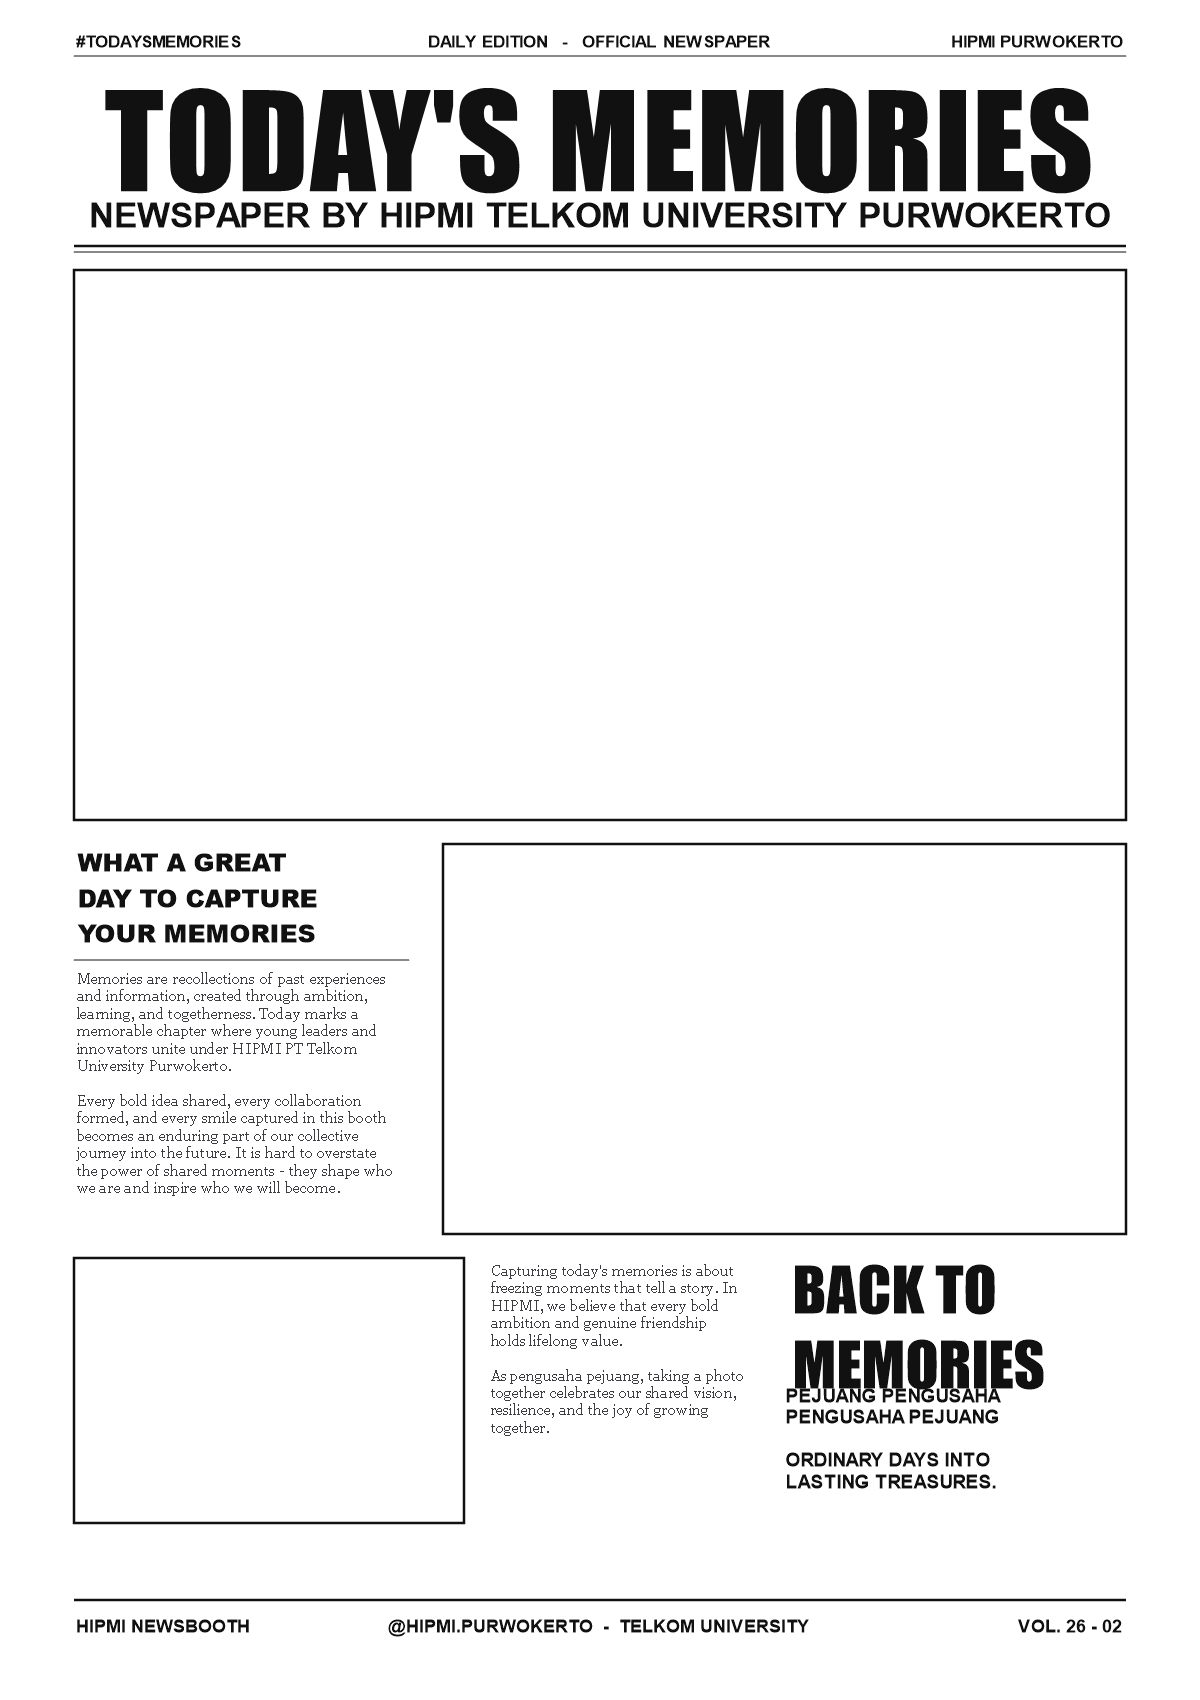
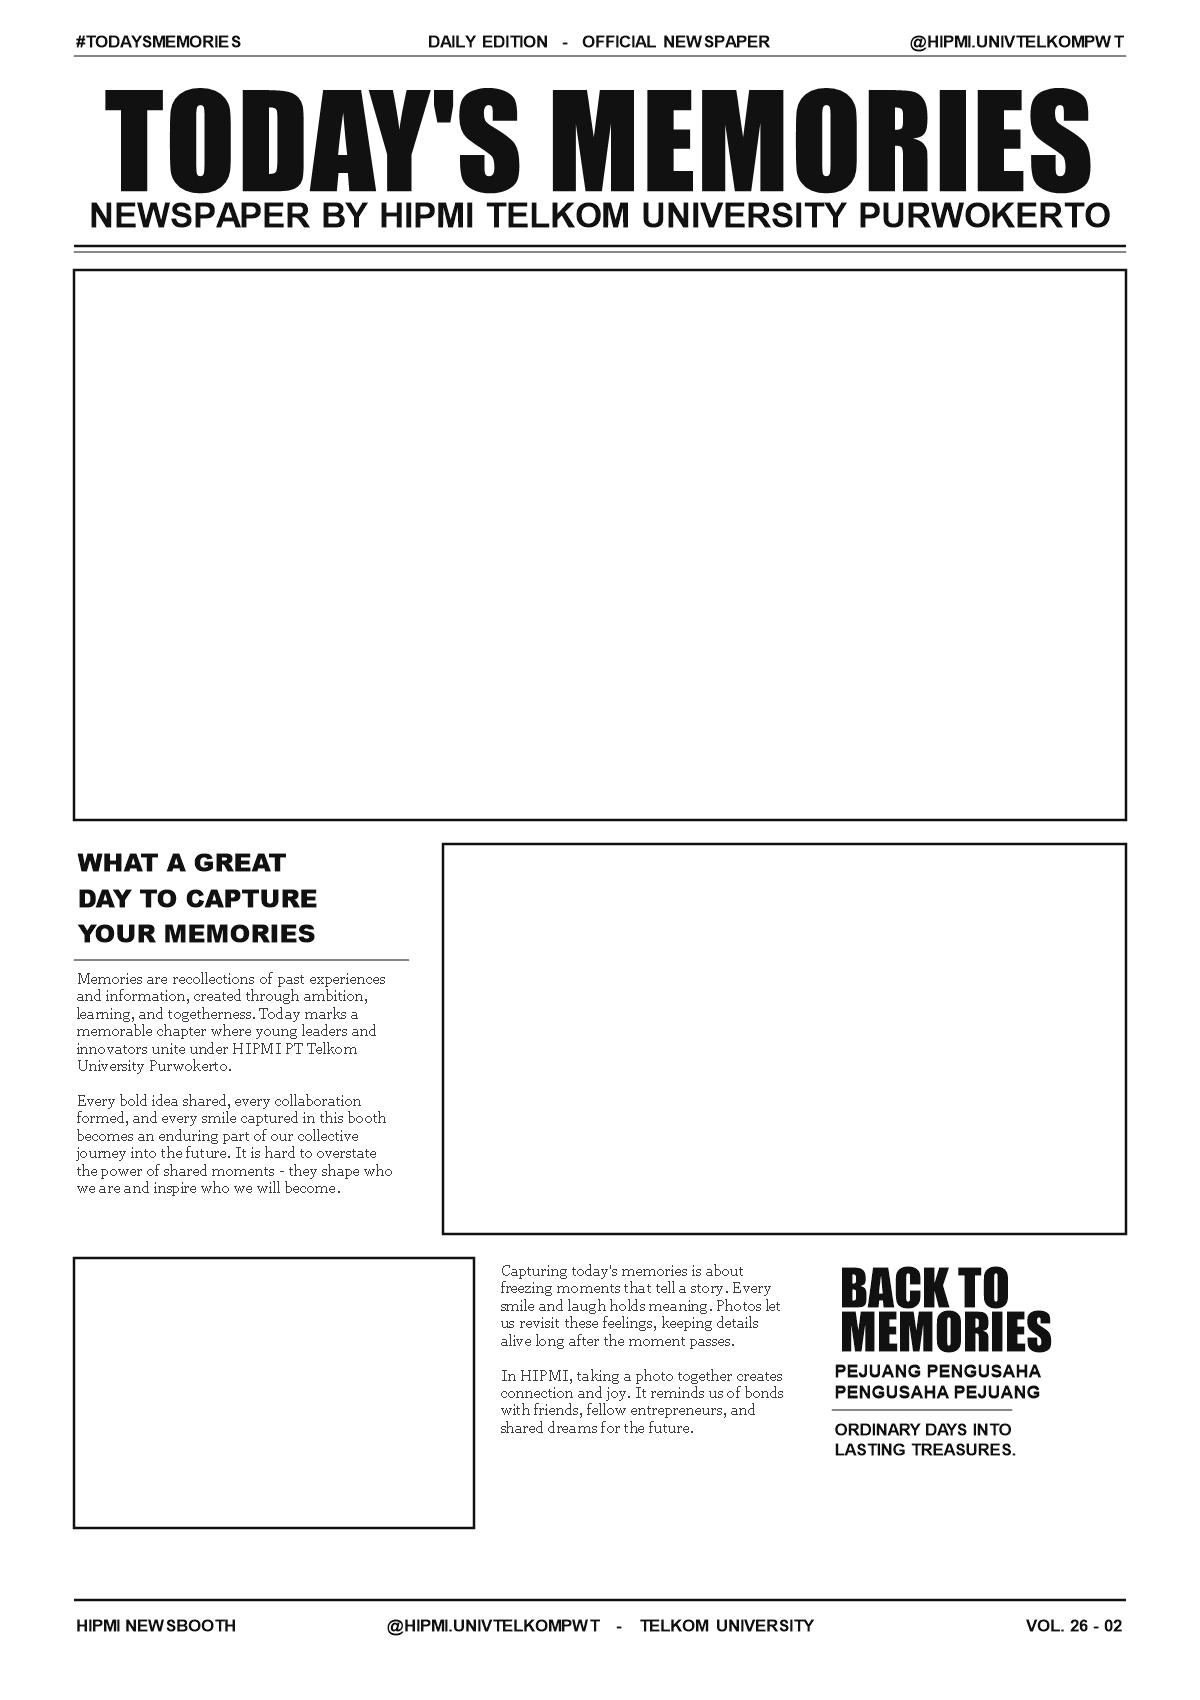
fix(templates): fix newspaper bottom layout overlapping and update handle to @hipmi.univtelkompwt

diff --git a/src/config/templates.js b/src/config/templates.js
@@ -405,7 +405,7 @@ export const TEMPLATES = [
       return [
         { id: 0, x: 74, y: 270, width: 1052, height: 550, borderRadius: 0, objectFit: "cover" },
         { id: 1, x: 443, y: 844, width: 683, height: 390, borderRadius: 0, objectFit: "cover" },
-        { id: 2, x: 74, y: 1258, width: 390, height: 265, borderRadius: 0, objectFit: "cover" }
+        { id: 2, x: 74, y: 1258, width: 400, height: 270, borderRadius: 0, objectFit: "cover" }
       ];
     }
   }
